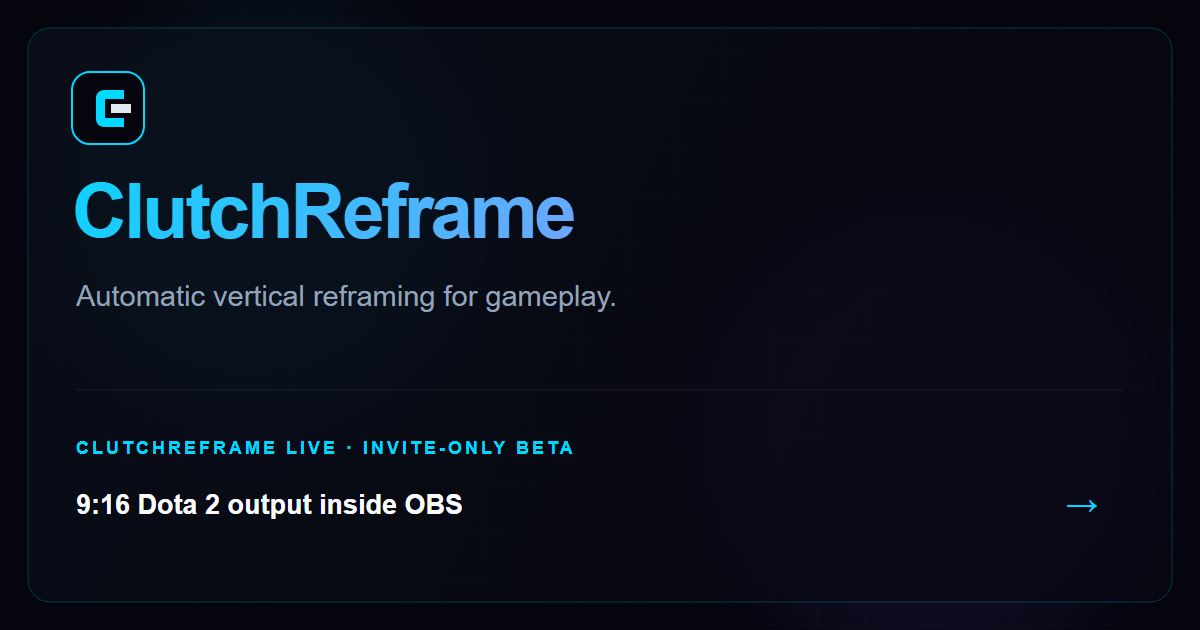
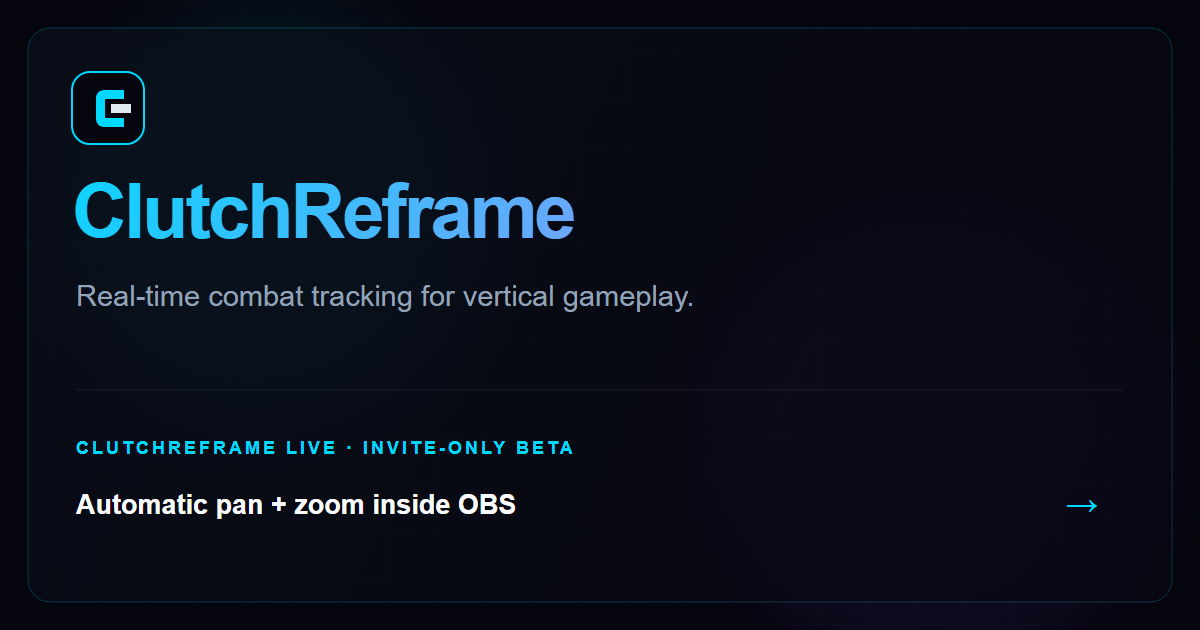
修改网站内容

Changed region(s): [[0.0617, 0.4524, 0.5858, 0.5127], [0.0617, 0.7841, 0.4317, 0.8143]]

diff --git a/index.html b/index.html
@@ -3,28 +3,28 @@
 <head>
     <meta charset="UTF-8">
     <meta name="viewport" content="width=device-width, initial-scale=1.0">
-    <meta name="description" content="ClutchReframe Live automatically reframes Dota 2 gameplay into a 9:16 OBS output while your own game view stays unchanged. Explore the invite-only Windows beta.">
+    <meta name="description" content="ClutchReframe Live tracks Dota 2 combat in real time and automatically pans the 9:16 OBS output while your own game view stays unchanged.">
     <meta name="theme-color" content="#05050d">
     <meta name="referrer" content="no-referrer">
     <meta http-equiv="Content-Security-Policy" content="default-src 'self'; img-src 'self' data:; media-src 'none'; style-src 'self'; font-src 'self'; script-src 'none'; connect-src 'self'; frame-src 'none'; object-src 'none'; base-uri 'self'; form-action 'none'; upgrade-insecure-requests">
 
     <meta property="og:type" content="website">
-    <meta property="og:title" content="ClutchReframe | Automatic Vertical Reframing for Dota 2">
-    <meta property="og:description" content="Automatically reframe Dota 2 gameplay for a 9:16 OBS output without changing the view you play on. Now in invite-only beta.">
+    <meta property="og:title" content="ClutchReframe | Automatic Combat Tracking for Dota 2">
+    <meta property="og:description" content="Real-time Dota 2 combat tracking with automatic panning and optional zoom for a 9:16 OBS output.">
     <meta property="og:url" content="https://clutchreframe.com/">
     <meta property="og:image" content="https://clutchreframe.com/og-image.png">
-    <meta property="og:image:alt" content="ClutchReframe Live for Dota 2 — automatic 9:16 gameplay reframing for OBS">
+    <meta property="og:image:alt" content="ClutchReframe Live for Dota 2 — automatic combat tracking and camera movement inside OBS">
     <meta property="og:image:width" content="1200">
     <meta property="og:image:height" content="630">
     <meta property="og:site_name" content="ClutchReframe">
 
     <meta name="twitter:card" content="summary_large_image">
-    <meta name="twitter:title" content="ClutchReframe | Automatic Vertical Reframing for Dota 2">
-    <meta name="twitter:description" content="Automatically reframe Dota 2 gameplay for a 9:16 OBS output without changing the view you play on. Now in invite-only beta.">
+    <meta name="twitter:title" content="ClutchReframe | Automatic Combat Tracking for Dota 2">
+    <meta name="twitter:description" content="Real-time Dota 2 combat tracking with automatic panning and optional zoom for a 9:16 OBS output.">
     <meta name="twitter:image" content="https://clutchreframe.com/og-image.png">
-    <meta name="twitter:image:alt" content="ClutchReframe Live for Dota 2 — automatic 9:16 gameplay reframing for OBS">
+    <meta name="twitter:image:alt" content="ClutchReframe Live for Dota 2 — automatic combat tracking and camera movement inside OBS">
 
-    <title>ClutchReframe | Automatic Vertical Reframing for Dota 2</title>
+    <title>ClutchReframe | Automatic Combat Tracking for Dota 2</title>
     <link rel="canonical" href="https://clutchreframe.com/">
     <link rel="icon" href="assets/favicon.svg" type="image/svg+xml">
     <link rel="preload" href="assets/fonts/inter-latin.woff2" as="font" type="font/woff2" crossorigin>
@@ -56,12 +56,12 @@
             <p class="eyebrow">ClutchReframe Live for Dota&nbsp;2</p>
 
             <h1 class="hero-title gradient-text" id="hero-title">
-                Turn your Dota&nbsp;2 stream vertical—live.
+                A vertical camera that follows every fight.
             </h1>
 
             <p class="hero-subtitle">
-                ClutchReframe Live automatically reframes the action inside OBS for a 9:16
-                output while your own game view stays unchanged.
+                ClutchReframe Live tracks combat in real time and automatically pans the 9:16
+                frame inside OBS—while your own game view stays unchanged.
             </p>
 
             <div class="hero-actions">
@@ -79,8 +79,8 @@
         <div class="container">
             <header class="section-header">
                 <p class="section-label">Invite-Only Beta</p>
-                <h2 class="section-title gradient-text" id="live-title">ClutchReframe Live for Dota&nbsp;2</h2>
-                <p class="section-desc">A dedicated 9:16 OBS output, reframed automatically while you keep playing in your normal widescreen view.</p>
+                <h2 class="section-title gradient-text" id="live-title">Automatic combat tracking for Dota&nbsp;2</h2>
+                <p class="section-desc">ClutchReframe Live analyzes visible action in real time, then automatically pans—and optionally zooms—the 9:16 output inside OBS.</p>
             </header>
 
             <a class="product-card" href="https://live-dota2.clutchreframe.com/" aria-label="Explore the invite-only ClutchReframe Live for Dota 2 beta">
@@ -90,14 +90,14 @@
                         <span>Dota&nbsp;2</span>
                     </div>
 
-                    <h3>Automatic reframing, built for live play</h3>
-                    <p>ClutchReframe Live follows the action in real time and reframes it for a 9:16 OBS output while the game view you play on remains unchanged.</p>
+                    <h3>Tracks the fight. Moves the camera.</h3>
+                    <p>ClutchReframe Live tracks visible combat in real time, then automatically pans—and optionally zooms—the vertical OBS output to follow the fight. Your own Dota&nbsp;2 view never moves.</p>
 
                     <ul class="product-tags" aria-label="Product platform and capabilities">
                         <li>Windows</li>
                         <li>OBS Studio</li>
-                        <li>9:16 OBS Output</li>
-                        <li>Real-Time Reframing</li>
+                        <li>Combat Tracking</li>
+                        <li>Auto Pan + Zoom</li>
                     </ul>
                 </div>
 
@@ -120,7 +120,7 @@
                     <span class="nav-mark" aria-hidden="true">CR</span>
                     <span class="gradient-text">ClutchReframe</span>
                 </a>
-                <p>Automatic vertical reframing for gameplay creators.</p>
+                <p>Automatic camera tracking for vertical gameplay.</p>
             </div>
 
             <div class="footer-col">
